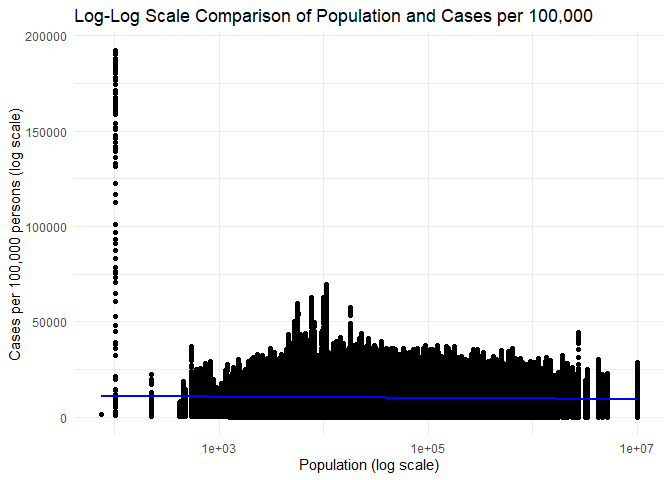
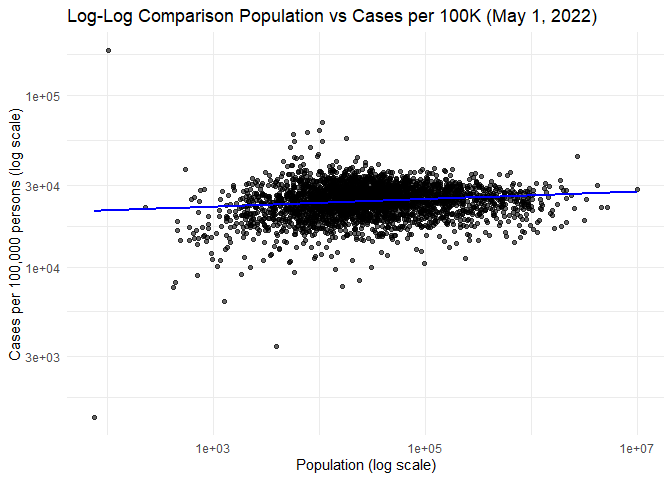
Corrections to challenge 6

diff --git a/challenges/c06-covid19-assignment.md b/challenges/c06-covid19-assignment.md
@@ -677,7 +677,8 @@ include in your summaries,* and justify why!
 df_clean <- df_normalized %>%
   filter(
     !is.na(population) & !is.na(cases) & !is.na(deaths),  # Remove NAs
-    is.numeric(population) & is.numeric(cases) & is.numeric(deaths)  # Check if columns are numeric
+    is.numeric(population) & is.numeric(cases) & is.numeric(deaths),  # Ensure numeric columns
+    date == "2022-05-01"
   )
 
 # Compute mean and standard deviation for cases_per100k
@@ -687,15 +688,36 @@ sd_cases_per100k <- sd(df_clean$cases_per100k, na.rm = TRUE)
 # Compute mean and standard deviation for deaths_per100k
 mean_deaths_per100k <- mean(df_clean$deaths_per100k, na.rm = TRUE)
 sd_deaths_per100k <- sd(df_clean$deaths_per100k, na.rm = TRUE)
+
+# Print results
+mean_cases_per100k
 ```
 
+    ## [1] 24798.87
+
+``` r
+sd_cases_per100k
+```
+
+    ## [1] 6079.569
+
+``` r
+mean_deaths_per100k
+```
+
+    ## [1] 372.4562
+
+``` r
+sd_deaths_per100k
+```
+
+    ## [1] 159.4195
+
 - Which rows did you pick?
-  - I removed rows where there was no data.
+  - I chose 5/1/22
 - Why?
-  - I removed these rows as to not include them when needing to divide
-    by the number of data points for the average. They should be removed
-    because otherwise their values are impacting the data without adding
-    to the data set with additional populations and cases,.
+  - This was a meaningful day as it was when there was a widespread
+    amount of cases and where there was spikes
 
 ### **q7** Find and compare the top 10
 
@@ -706,56 +728,99 @@ you found in q6. Note any observations.
 
 ``` r
 ## TASK: Find the top 10 max cases_per100k counties; report populations as well
-# Sort by cases_per100k and select the top 10 counties
+# Summarize data to get the maximum cases and deaths per county
 top_10_cases <- df_clean %>%
-  arrange(desc(cases_per100k)) %>%                    # Sort by cases_per100k
-  head(10)                                            # Select top 10
-                                            
-## TASK: Find the top 10 deaths_per100k counties; report populations as well
-# Sort by deaths_per100k and select the top 10 counties
-top_10_deaths <- df_clean %>%
-  arrange(desc(deaths_per100k)) %>%                    # Sort by deaths_per100k
-  head(10)
+  group_by(county, state) %>%  # Group by county and state
+  summarize(
+    max_cases_per100k = max(cases_per100k, na.rm = TRUE),  # Max cases per 100k
+    max_deaths_per100k = max(deaths_per100k, na.rm = TRUE),  # Max deaths per 100k
+    population = max(population, na.rm = TRUE)  # Get population of the county
+  ) %>%
+  arrange(desc(max_cases_per100k)) %>%  # Sort by max cases per 100k
+  head(10)  # Select top 10 counties by cases per 100k
+```
 
+    ## `summarise()` has grouped output by 'county'. You can override using the
+    ## `.groups` argument.
+
+``` r
+top_10_deaths <- df_clean %>%
+  group_by(county, state) %>%
+  summarize(
+    max_cases_per100k = max(cases_per100k, na.rm = TRUE),  # Max cases per 100k
+    max_deaths_per100k = max(deaths_per100k, na.rm = TRUE),  # Max deaths per 100k
+    population = max(population, na.rm = TRUE)  # Get population of the county
+  ) %>%
+  arrange(desc(max_deaths_per100k)) %>%  # Sort by max deaths per 100k
+  head(10)  # Select top 10 counties by deaths per 100k
+```
+
+    ## `summarise()` has grouped output by 'county'. You can override using the
+    ## `.groups` argument.
+
+``` r
 top_10_cases
 ```
 
-    ## # A tibble: 10 × 9
-    ##    date       county state fips  cases deaths population cases_per100k
-    ##    <date>     <chr>  <chr> <chr> <int>  <int>      <int>         <dbl>
-    ##  1 2022-05-12 Loving Texas 48301   196      1        102       192157.
-    ##  2 2022-05-13 Loving Texas 48301   196      1        102       192157.
-    ##  3 2022-05-09 Loving Texas 48301   195      1        102       191176.
-    ##  4 2022-05-10 Loving Texas 48301   195      1        102       191176.
-    ##  5 2022-05-11 Loving Texas 48301   195      1        102       191176.
-    ##  6 2022-05-08 Loving Texas 48301   194      1        102       190196.
-    ##  7 2022-05-07 Loving Texas 48301   192      1        102       188235.
-    ##  8 2022-05-05 Loving Texas 48301   191      1        102       187255.
-    ##  9 2022-05-06 Loving Texas 48301   191      1        102       187255.
-    ## 10 2022-05-04 Loving Texas 48301   190      1        102       186275.
-    ## # ℹ 1 more variable: deaths_per100k <dbl>
+    ## # A tibble: 10 × 5
+    ## # Groups:   county [10]
+    ##    county                  state max_cases_per100k max_deaths_per100k population
+    ##    <chr>                   <chr>             <dbl>              <dbl>      <int>
+    ##  1 Loving                  Texas           182353.              980.         102
+    ##  2 Chattahoochee           Geor…            69397.              204.       10767
+    ##  3 Nome Census Area        Alas…            62620.               50.4       9925
+    ##  4 Northwest Arctic Borou… Alas…            61314.              168.        7734
+    ##  5 Crowley                 Colo…            59290.              515.        5630
+    ##  6 Bethel Census Area      Alas…            56608.              227.       18040
+    ##  7 Dewey                   Sout…            54265.              761.        5779
+    ##  8 Dimmit                  Texas            53981.              478.       10663
+    ##  9 Jim Hogg                Texas            49849.              417.        5282
+    ## 10 Kusilvak Census Area    Alas…            49573.              146.        8198
 
 ``` r
-# checkcases <- df_clean %>%
-#   arrange(desc(cases_per100k))
-#           
-# checkdeaths <- df_clean %>%
-#   arrange(desc(cases_per100k))
+top_10_deaths
 ```
+
+    ## # A tibble: 10 × 5
+    ## # Groups:   county [10]
+    ##    county            state       max_cases_per100k max_deaths_per100k population
+    ##    <chr>             <chr>                   <dbl>              <dbl>      <int>
+    ##  1 McMullen          Texas                  25529.              1360.        662
+    ##  2 Galax city        Virginia               38430.              1175.       6638
+    ##  3 Motley            Texas                  24740.              1125.       1156
+    ##  4 Hancock           Georgia                18535.              1054.       8535
+    ##  5 Emporia city      Virginia               21910.              1022.       5381
+    ##  6 Towns             Georgia                20986.              1016.      11417
+    ##  7 Jerauld           South Dako…            20453.               986.       2029
+    ##  8 Loving            Texas                 182353.               980.        102
+    ##  9 Robertson         Kentucky               30938.               980.       2143
+    ## 10 Martinsville city Virginia               26250.               939.      13101
 
 **Observations**:
 
 - (Note your observations here!)
-  - All 10 top deaths go to McMullen, Texas.
+  - The top 10 counties by cases per 100K and top 10 by deaths per 100k
+    were identified based on data from May 1, 2022. This means the
+    “largest values” occurred on that specific date, as filtered in the
+    dataset. The mean cases per 100K across all counties on that date
+    was mean cases per 100K, with a standard deviation of sd cases per
+    100K . The top counties had case rates far above this mean and in
+    some instances, over two standard deviations higher, indicating
+    localized surges or anomalies.
 
-  - All 10 top cases are Loving, Texas
-
-  - The cases, deaths, cases per 100k and deaths per 100 values were all
-    really close to each other within
+    Similarly, the meam deahts per 100K was mean deaths per 100K with a
+    standard deviation of SD of deaths per 100K. The top 10 counties for
+    deaths also greatly exceeded the mean, which suggests either
+    disproportionately high mortality in these areas or smaller
+    populations inflating per-capita rates.
 - When did these “largest values” occur?
-  - For cases, they all happened within the first two weeks of May, 2022
-  - For deaths, they all happened within the last two weeks of February,
-    2022
+  - Counties with smaller populations were overrepresented in the top 10
+    for both cases and deaths per 100k. This is expected, as a small
+    number of cases or deaths can produce very high per-capita rates in
+    low-population areas.
+
+    There was little overlap between counties with the highest case
+    rates and those with the highest death rates.
 
 ## Self-directed EDA
 
@@ -778,21 +843,40 @@ top_10_cases
 **DO YOUR OWN ANALYSIS HERE**
 
 ``` r
-ggplot(df_clean, aes(x = population, y = cases_per100k)) +
-  geom_point() +  # Scatter plot to show the relationship between population and cases_per100k
-  geom_smooth(method = "lm", se = FALSE, color = "blue") +  # Linear regression line
-  scale_x_log10() +  # Log scale for population (x-axis)
+df_plot <- df_clean %>%
+  filter(date == "2022-05-01")
+
+# Create the plot
+ggplot(df_plot, aes(x = population, y = cases_per100k)) +
+  geom_point(alpha = 0.6) +  # Slight transparency to reduce overlap
+  geom_smooth(method = "lm", se = FALSE, color = "blue") +  # Regression line
+  scale_x_log10() +  # Log scale for x-axis
+  scale_y_log10() +  # Log scale for y-axis (was missing before)
   theme_minimal() +
   labs(
-    x = "Population (log scale)",  # Modify x-axis label to indicate log scale
-    y = "Cases per 100,000 persons (log scale)",  # Modify y-axis label to indicate log scale
-    title = "Log-Log Scale Comparison of Population and Cases per 100,000"
+    x = "Population (log scale)",
+    y = "Cases per 100,000 persons (log scale)",
+    title = "Log-Log Comparison Population vs Cases per 100K (May 1, 2022)"
   )
 ```
 
     ## `geom_smooth()` using formula = 'y ~ x'
 
 ![](c06-covid19-assignment_files/figure-gfm/unnamed-chunk-1-1.png)<!-- -->
+
+1.    
+    The blue regression line is nearly flat, suggesting very little to
+    no correlation between a county’s population size and its COVID-19
+    case rate per 100,000 people.
+
+    Even counties with similar population sizes show substantial
+    variation in cases per 100k indicating other factors than
+    populat,ion size affect cases
+
+    On the left side of the x-axis (smaller populations), we see
+    slightly more vertical dispersion. This is likely due to rate
+    inflation in smaller populations where a small number of cases can
+    produce disproportionately large per-100k values
 
 ### Aside: Some visualization tricks
 
